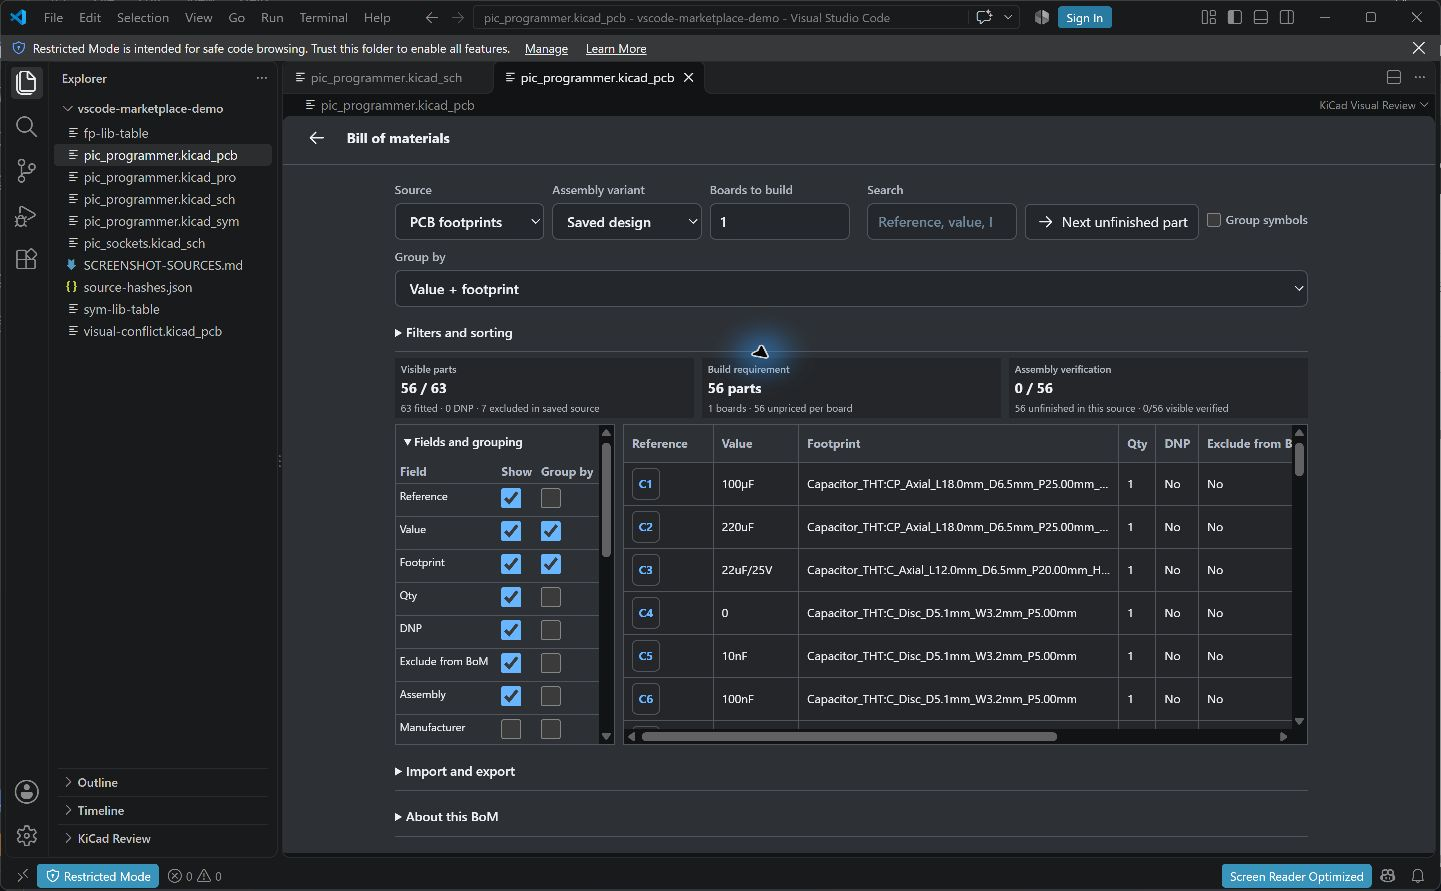
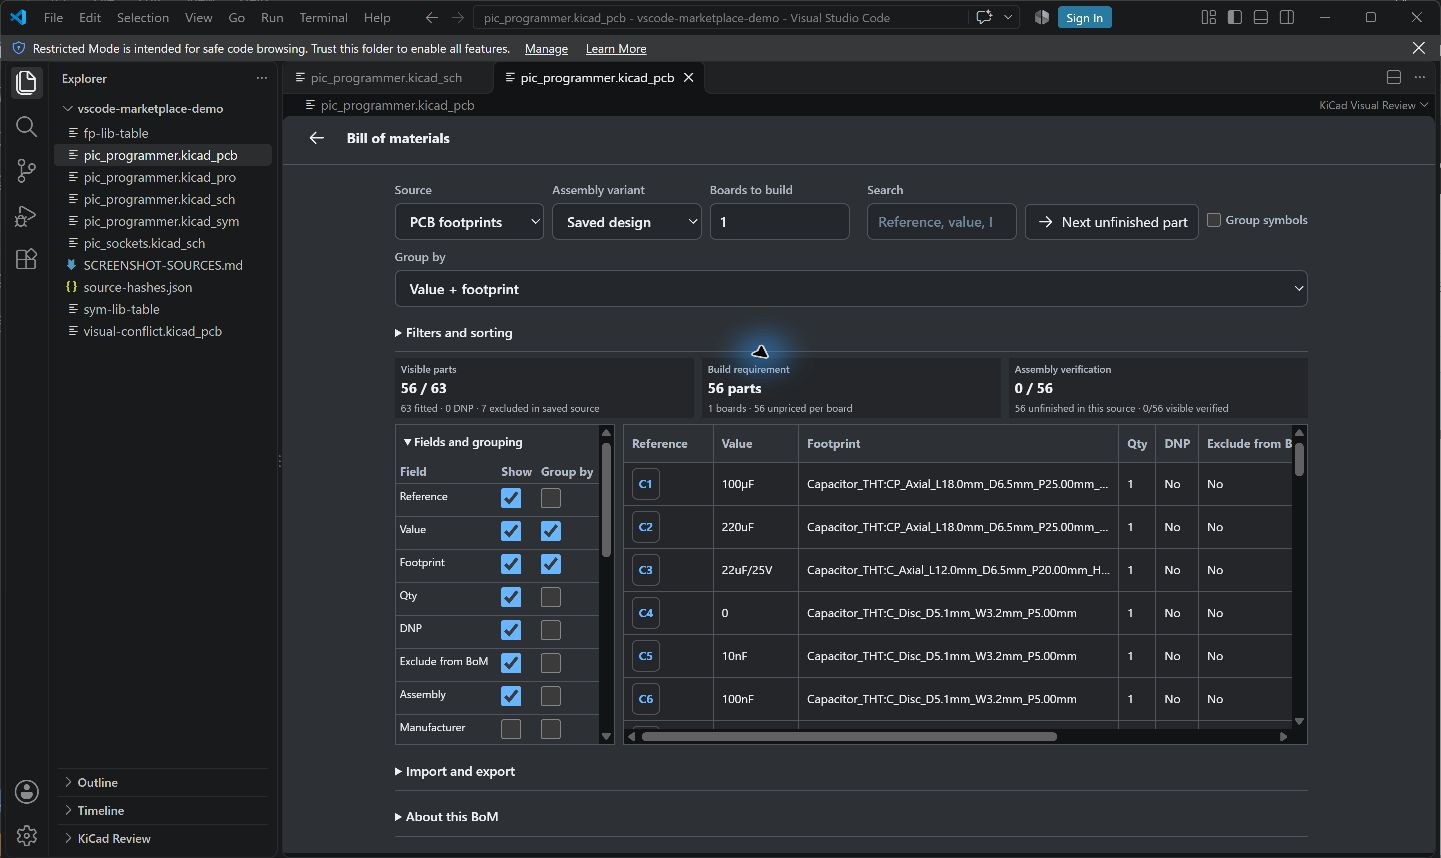
Crop desktop taskbar fragments from VS Code screenshot assets

diff --git a/README.md b/README.md
@@ -2,3 +2,5 @@ Public KiCad 10 PIC Programmer demo copied from the installed KiCad distribution
 visual-conflict.kicad_pcb is an intentionally generated demonstration conflict: the incoming side changes one footprint Value field. It is not a real customer merge or electrical redesign.
 
 open-viewer-command.jpg and copper-net-names.jpg show the installed VS Code extension 0.12.49 with the same public demo, captured on 23 October 2026. The user guide documents the shipped VS Code host. Owner-authored documentation and screenshot material is provided under the included source-available LICENSE; underlying third-party designs and branding retain their own rights.
+
+2026-10-27: all six VS Code screenshots are cropped to 1441 × 858, removing desktop taskbar fragments and the editor status-bar strip. The drawing, app toolbars and editor context remain. These are crops of the retained installed-extension captures, not newly captured UI.
